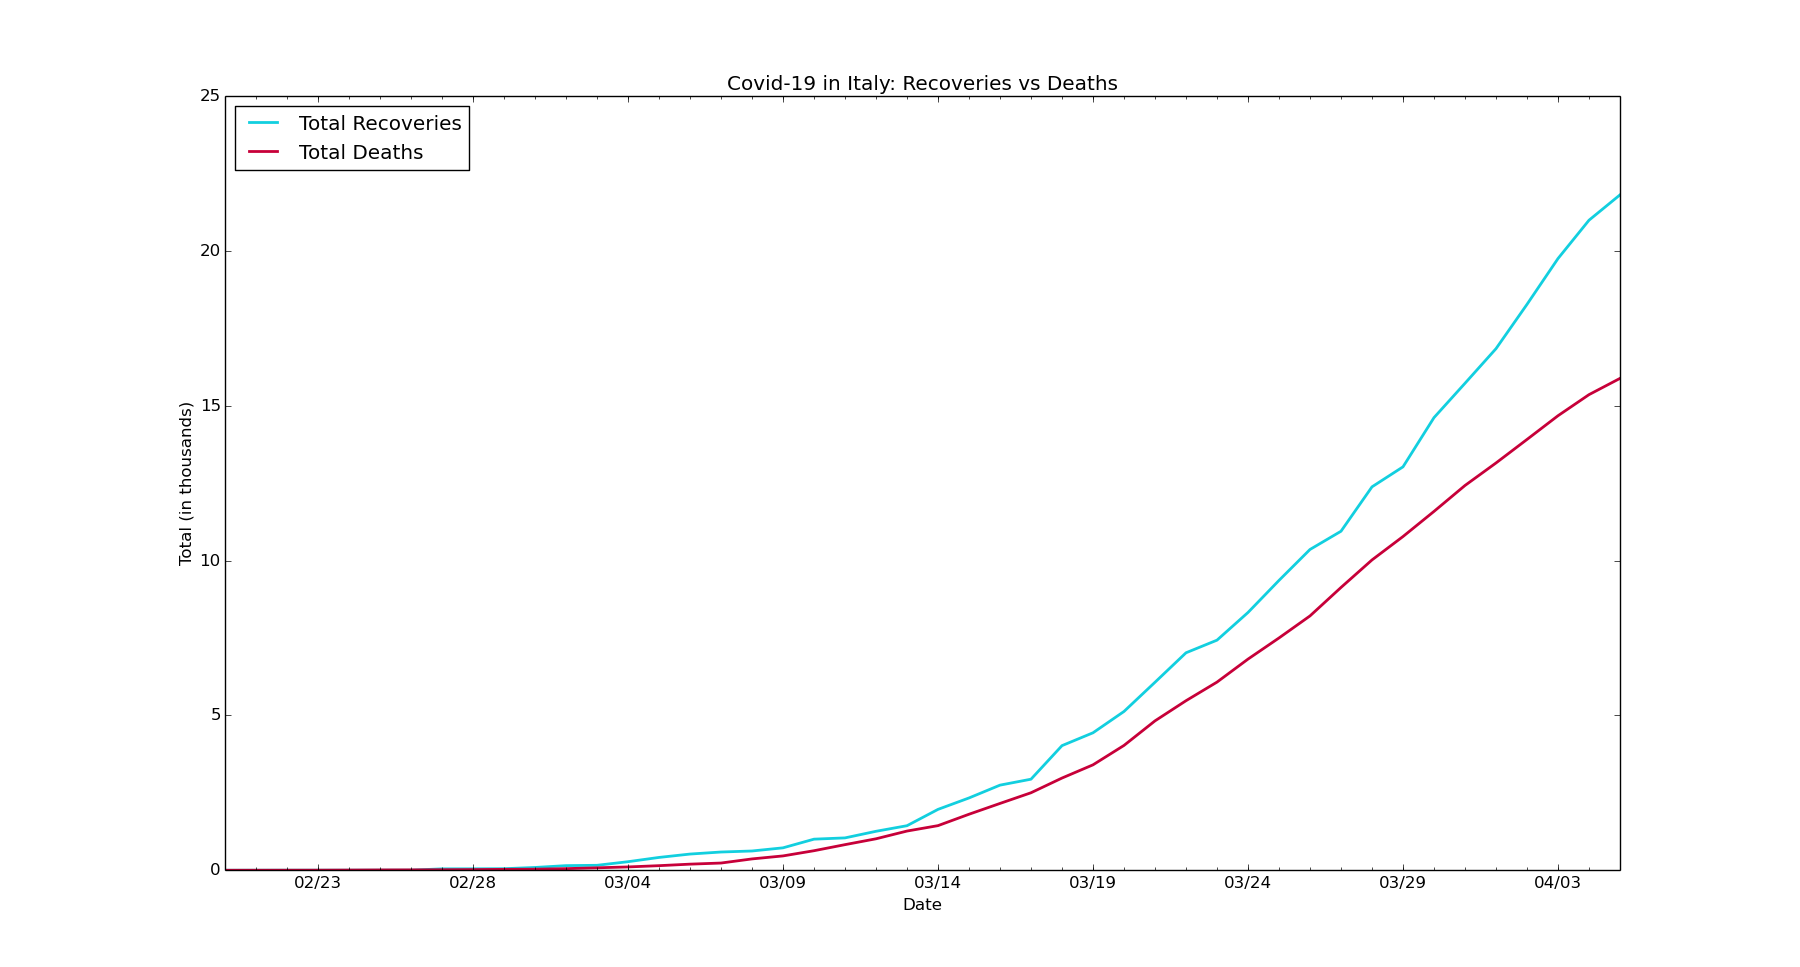
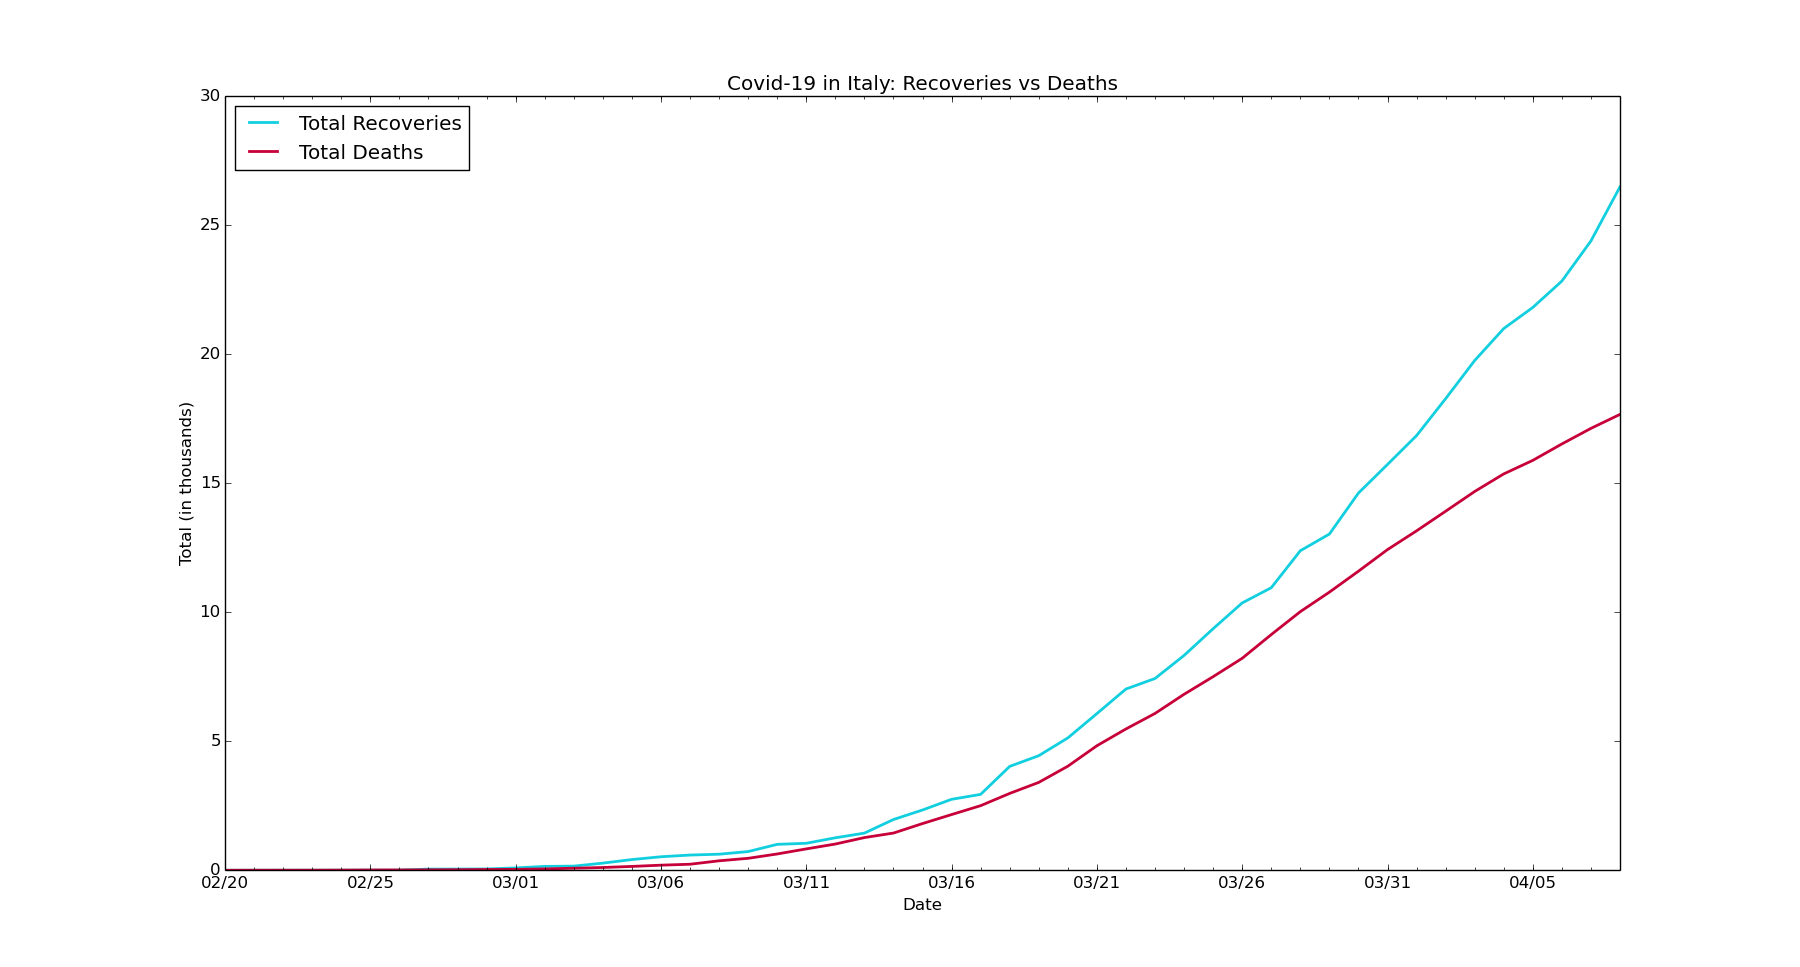
chore: Update data for Italy

diff --git a/italy/it-nc.py b/italy/it-nc.py
@@ -6,7 +6,7 @@ import matplotlib.dates as mdates
 import matplotlib.ticker as ticker
 from matplotlib.dates import MO, TU, WE, TH, FR, SA, SU
 
-dates = ['1/31/2020', '2/1/2020', '2/2/2020', '2/3/2020', '2/4/2020', '2/5/2020', '2/6/2020', '2/7/2020', '2/8/2020', '2/9/2020', '2/10/2020', '2/11/2020', '2/12/2020', '2/13/2020', '2/14/2020', '2/15/2020', '2/16/2020', '2/17/2020', '2/18/2020', '2/19/2020', '2/20/2020', '2/21/2020', '2/22/2020', '2/23/2020', '2/24/2020', '2/25/2020', '2/26/2020', '2/27/2020', '2/28/2020', '2/29/2020', '3/1/2020', '3/2/2020', '3/3/2020', '3/4/2020', '3/5/2020', '3/6/2020', '3/7/2020', '3/8/2020', '3/9/2020', '3/10/2020', '3/11/2020', '3/12/2020', '3/13/2020', '3/14/2020', '3/15/2020', '3/16/2020', '3/17/2020', '3/18/2020', '3/19/2020', '3/20/2020', '3/21/2020', '3/22/2020', '3/23/2020', '3/24/2020', '3/25/2020', '3/26/2020', '3/27/2020', '3/28/2020', '3/29/2020', '3/30/2020', '3/31/2020', '4/1/2020', '4/2/2020', '4/3/2020', '4/4/2020', '4/5/2020']
+dates = ['1/31/2020', '2/1/2020', '2/2/2020', '2/3/2020', '2/4/2020', '2/5/2020', '2/6/2020', '2/7/2020', '2/8/2020', '2/9/2020', '2/10/2020', '2/11/2020', '2/12/2020', '2/13/2020', '2/14/2020', '2/15/2020', '2/16/2020', '2/17/2020', '2/18/2020', '2/19/2020', '2/20/2020', '2/21/2020', '2/22/2020', '2/23/2020', '2/24/2020', '2/25/2020', '2/26/2020', '2/27/2020', '2/28/2020', '2/29/2020', '3/1/2020', '3/2/2020', '3/3/2020', '3/4/2020', '3/5/2020', '3/6/2020', '3/7/2020', '3/8/2020', '3/9/2020', '3/10/2020', '3/11/2020', '3/12/2020', '3/13/2020', '3/14/2020', '3/15/2020', '3/16/2020', '3/17/2020', '3/18/2020', '3/19/2020', '3/20/2020', '3/21/2020', '3/22/2020', '3/23/2020', '3/24/2020', '3/25/2020', '3/26/2020', '3/27/2020', '3/28/2020', '3/29/2020', '3/30/2020', '3/31/2020', '4/1/2020', '4/2/2020', '4/3/2020', '4/4/2020', '4/5/2020', '4/6/2020', '4/7/2020', '4/8/2020']
 
 # format dates
 x_values = [dt.datetime.strptime(d, "%m/%d/%Y").date() for d in dates]
@@ -31,7 +31,7 @@ plt.axvline(dt.datetime(2020, 3, 21), color='#0b28f7', linewidth=2, label='nones
 ax.get_yaxis().set_major_formatter(ticker.FuncFormatter(lambda x, pos: format(int(x/1000), ',')))
 
 # new cases by day
-new_cases = [2, 0, 0, 0, 0, 0, 1, 0, 0, 0, 0, 0, 0, 0, 0, 0, 0, 0, 0, 0, 0, 17, 58, 78, 72, 94, 147, 185, 234, 239, 573, 335, 466, 587, 769, 778, 1247, 1492, 1797, 977, 2313, 2651, 2547, 3497, 3590, 3233, 3526, 4207, 5322, 5986, 6557, 5560, 4789, 5249, 5210, 6203, 5909, 5974, 5217, 4050, 4053, 4782, 4668, 4585, 4805, 4316]
+new_cases = [2, 0, 0, 0, 0, 0, 1, 0, 0, 0, 0, 0, 0, 0, 0, 0, 0, 0, 0, 0, 0, 17, 58, 78, 72, 94, 147, 185, 234, 239, 573, 335, 466, 587, 769, 778, 1247, 1492, 1797, 977, 2313, 2651, 2547, 3497, 3590, 3233, 3526, 4207, 5322, 5986, 6557, 5560, 4789, 5249, 5210, 6203, 5909, 5974, 5217, 4050, 4053, 4782, 4668, 4585, 4805, 4316, 3599, 3039, 3836]
 
 # text labels
 plt.title('Covid-19 in Italy: New Confirmed Diagnoses')

diff --git a/italy/it-rvd.py b/italy/it-rvd.py
@@ -6,7 +6,7 @@ import matplotlib.dates as mdates
 import matplotlib.ticker as ticker
 from matplotlib.dates import MO, TU, WE, TH, FR, SA, SU
 
-dates = ['2/20/2020', '2/21/2020', '2/22/2020', '2/23/2020', '2/24/2020', '2/25/2020', '2/26/2020', '2/27/2020', '2/28/2020', '2/29/2020', '3/1/2020', '3/2/2020', '3/3/2020', '3/4/2020', '3/5/2020', '3/6/2020', '3/7/2020', '3/8/2020', '3/9/2020', '3/10/2020', '3/11/2020', '3/12/2020', '3/13/2020', '3/14/2020', '3/15/2020', '3/16/2020', '3/17/2020', '3/18/2020', '3/19/2020', '3/20/2020', '3/21/2020', '3/22/2020', '3/23/2020', '3/24/2020', '3/25/2020', '3/26/2020', '3/27/2020', '3/28/2020', '3/29/2020', '3/30/2020', '3/31/2020', '4/1/2020', '4/2/2020', '4/3/2020', '4/4/2020', '4/5/2020']
+dates = ['2/20/2020', '2/21/2020', '2/22/2020', '2/23/2020', '2/24/2020', '2/25/2020', '2/26/2020', '2/27/2020', '2/28/2020', '2/29/2020', '3/1/2020', '3/2/2020', '3/3/2020', '3/4/2020', '3/5/2020', '3/6/2020', '3/7/2020', '3/8/2020', '3/9/2020', '3/10/2020', '3/11/2020', '3/12/2020', '3/13/2020', '3/14/2020', '3/15/2020', '3/16/2020', '3/17/2020', '3/18/2020', '3/19/2020', '3/20/2020', '3/21/2020', '3/22/2020', '3/23/2020', '3/24/2020', '3/25/2020', '3/26/2020', '3/27/2020', '3/28/2020', '3/29/2020', '3/30/2020', '3/31/2020', '4/1/2020', '4/2/2020', '4/3/2020', '4/4/2020', '4/5/2020', '4/6/2020', '4/7/2020', '4/8/2020']
 
 # format dates
 x_values = [datetime.datetime.strptime(d, "%m/%d/%Y").date() for d in dates]
@@ -24,10 +24,10 @@ ax.xaxis.set_minor_locator(mdates.WeekdayLocator(byweekday=(MO, TU, WE, TH, FR, 
 ax.get_yaxis().set_major_formatter(ticker.FuncFormatter(lambda x, pos: format(int(x/1000), ',')))
 
 # total recoveries
-recoveries = [0, 1, 2, 2, 2, 3, 3, 45, 46, 50, 90, 149, 160, 276, 414, 523, 589, 622, 724, 1004, 1045, 1258, 1439, 1966, 2335, 2749, 2941, 4025, 4440, 5129, 6072, 7024, 7432, 8326, 9362, 10361, 10950, 12384, 13030, 14620, 15729, 16847, 18278, 19758, 20996, 21815]
+recoveries = [0, 1, 2, 2, 2, 3, 3, 45, 46, 50, 90, 149, 160, 276, 414, 523, 589, 622, 724, 1004, 1045, 1258, 1439, 1966, 2335, 2749, 2941, 4025, 4440, 5129, 6072, 7024, 7432, 8326, 9362, 10361, 10950, 12384, 13030, 14620, 15729, 16847, 18278, 19758, 20996, 21815, 22837, 24392, 26491]
 
 # total deaths
-deaths = [0, 1, 2, 3, 6, 10, 12, 17, 21, 29, 34, 52, 79, 107, 148, 197, 233, 366, 463, 631, 827, 1016, 1266, 1441, 1809, 2158, 2503, 2978, 3405, 4032, 4825, 5476, 6077, 6820, 7503, 8215, 9134, 10023, 10779, 11591, 12428, 13155, 13915, 14681, 15362, 15887]
+deaths = [0, 1, 2, 3, 6, 10, 12, 17, 21, 29, 34, 52, 79, 107, 148, 197, 233, 366, 463, 631, 827, 1016, 1266, 1441, 1809, 2158, 2503, 2978, 3405, 4032, 4825, 5476, 6077, 6820, 7503, 8215, 9134, 10023, 10779, 11591, 12428, 13155, 13915, 14681, 15362, 15887, 16523, 17127, 17669]
 
 # create the graph
 plt.plot(x_values, recoveries, color='#12cfdf', linewidth=2)
